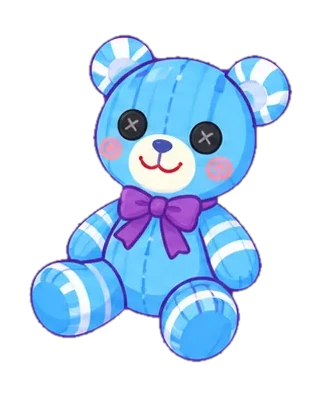
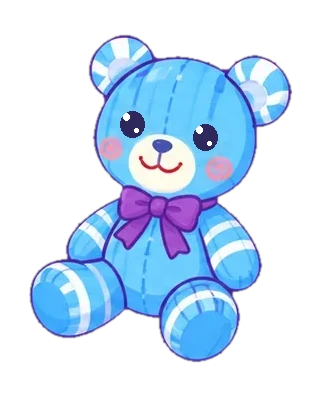
WD2: у игрушечного мишки крестики-пуговицы заменены на добрые глаза
Замечание Анны: мишка в WD2 ДЗ 25 выглядел криповым — чёрные
пуговицы с крестиками читаются как мёртвые глаза. Пуговицы закрашены
цветом мордочки, нарисованы тёмно-синие глаза с бликом в стиле курса.
Картинка одна на три домашки (ДЗ 25, 27, 28), 14 блоков.

Claude-Session: https://claude.ai/code/session_01Tpz6k1KngtjFudm7rnJ4X1

Changed region(s): [[0.5607, 0.3053, 0.7165, 0.3969], [0.3427, 0.2748, 0.4673, 0.3664]]

diff --git a/builds/kartinki/wd2_mishka_glaza.py b/builds/kartinki/wd2_mishka_glaza.py
@@ -1,0 +1,47 @@
+from PIL import Image, ImageDraw, ImageFilter
+import numpy as np
+
+src = '/home/user/classroom/media/wow-dragon-2/legacy/68aa77cdcd12.webp'
+im = Image.open(src).convert('RGBA')
+arr = np.array(im)
+H, W = arr.shape[:2]
+yy, xx = np.mgrid[0:H, 0:W]
+
+eyes = [(132, 124, 17), (205, 137, 18)]
+
+for cx, cy, r in eyes:
+    dist2 = (xx-cx)**2 + (yy-cy)**2
+    ring = (dist2 > (r+2)**2) & (dist2 <= (r+7)**2)
+    px = arr[ring][:, :3].astype(int)
+    goden = (px[:,2] > px[:,0] + 20) & (px.sum(axis=1) > 320)   # голубое, не контур и не тень
+    cvet = np.median(px[goden], axis=0).astype(np.uint8)
+    hole = dist2 <= r*r
+    arr[hole, 0], arr[hole, 1], arr[hole, 2] = cvet
+    arr[hole, 3] = 255
+
+im2 = Image.fromarray(arr, 'RGBA')
+# лёгкое размытие только по заплатке, чтобы край не был резким
+blur = im2.filter(ImageFilter.GaussianBlur(1.6))
+mask = Image.new('L', (W, H), 0)
+md = ImageDraw.Draw(mask)
+for cx, cy, r in eyes:
+    md.ellipse((cx-r-2, cy-r-2, cx+r+2, cy+r+2), fill=255)
+im2 = Image.composite(blur, im2, mask)
+
+d = ImageDraw.Draw(im2)
+TEMNO = (45, 40, 92, 255)
+for cx, cy, r in eyes:
+    rx, ry = 12, 13
+    d.ellipse((cx-rx, cy-ry, cx+rx, cy+ry), fill=TEMNO)
+    d.ellipse((cx-rx+3, cy-ry+2, cx-rx+9, cy-ry+9), fill=(255,255,255,255))
+    d.ellipse((cx+2, cy+4, cx+6, cy+8), fill=(255,255,255,170))
+
+im2.save('teddy_new2.png')
+im2.convert('RGB').crop((80,90,250,200)).resize((680,440), Image.LANCZOS).save('face_new2.png')
+old = Image.open(src).convert('RGBA')
+sheet = Image.new('RGB', (old.width*2+60, old.height+40), 'white')
+for i, p in enumerate((old, im2)):
+    bg = Image.new('RGBA', p.size, (255,255,255,255)); bg.alpha_composite(p)
+    sheet.paste(bg.convert('RGB'), (20 + i*(old.width+20), 20))
+sheet.save('sravnenie2.png')
+print('ok')
